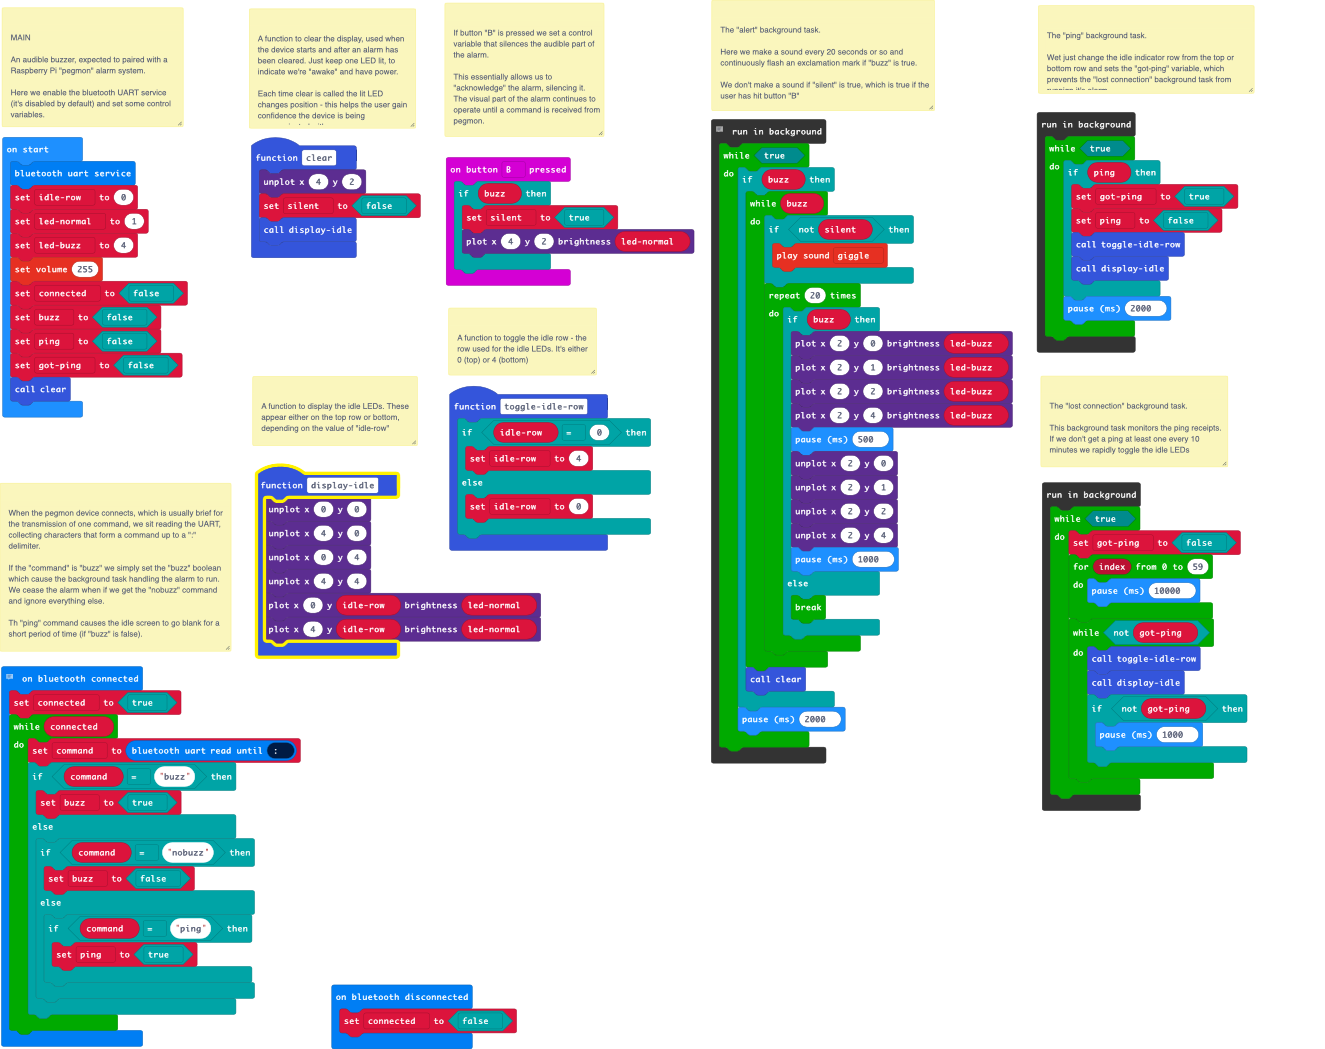
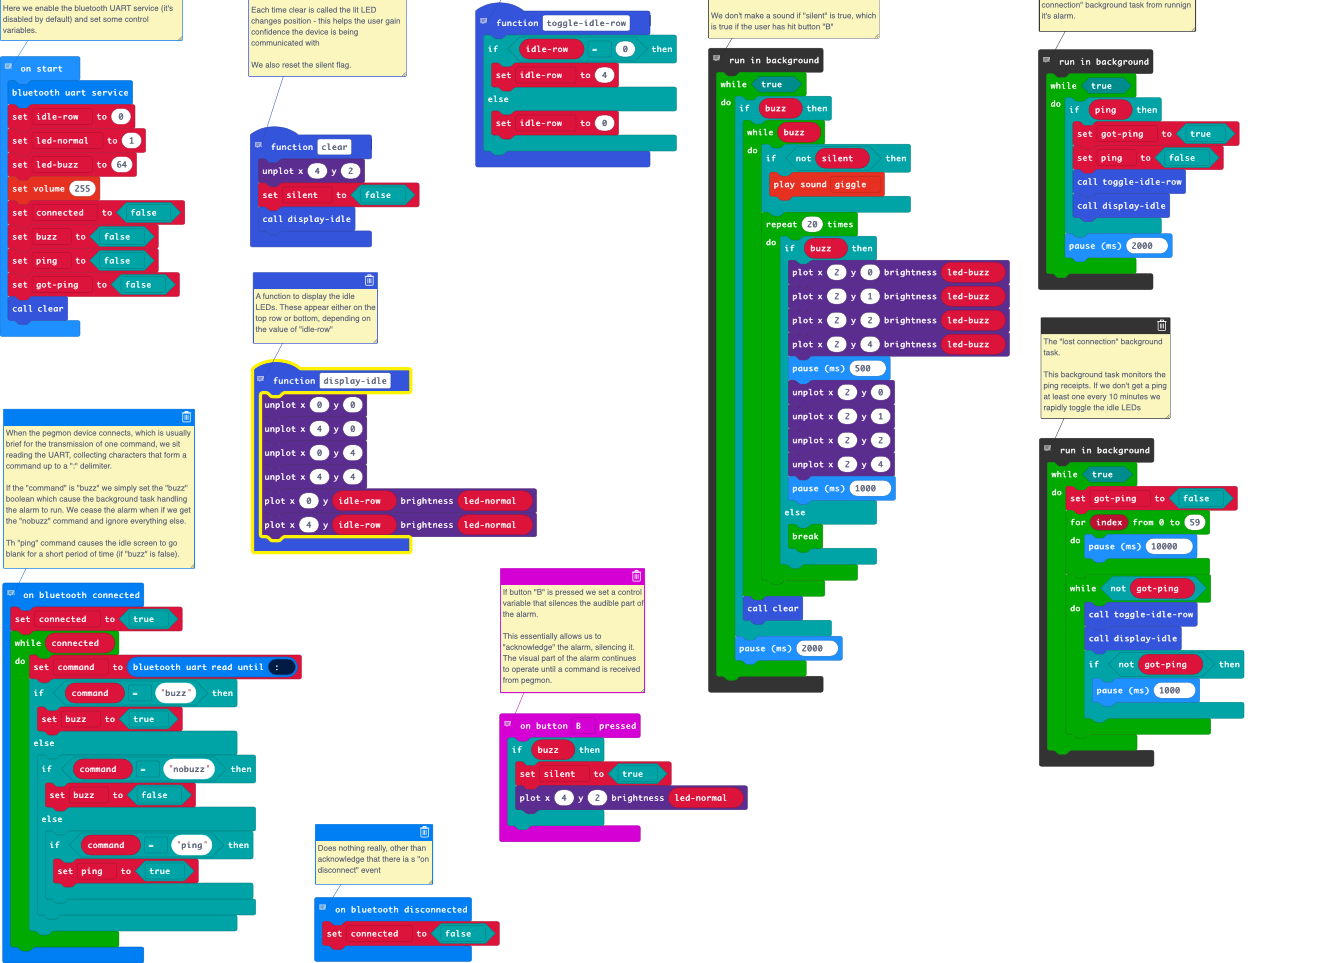
Switch to block comments

diff --git a/main.ts b/main.ts
@@ -1,28 +1,4 @@
-/**
- * MAIN
- * 
- * An audible buzzer, expected to paired with a Raspberry Pi "pegmon" alarm system.
- * 
- * Here we enable the bluetooth UART service (it's disabled by default) and set some control variables.
- */
-/**
- * The "ping" background task.
- * 
- * Wet just change the idle indicator row from the top or bottom row and sets the "got-ping" variable, which prevents the "lost connection" background task from runnign it's alarm.
- */
-/**
- * A function to display the idle LEDs. These appear either on the top row or bottom, depending on the value of "idle-row"
- */
-/**
- * When the pegmon device connects, which is usually brief for the transmission of one command, we sit reading the UART, collecting characters that form a command up to a ":" delimiter.
- * 
- * If the "command" is "buzz" we simply set the "buzz" boolean which cause the background task handling the alarm to run. We cease the alarm when if we get the "nobuzz" command and ignore everything else.
- * 
- * Th "ping" command causes the idle screen to go blank for a short period of time (if "buzz" is false).
- */
-/**
- * A function to toggle the idle row - the row used for the idle LEDs. It's either 0 (top) or 4 (bottom)
- */
+// A function to toggle the idle row - the row used for the idle LEDs. It's either 0 (top) or 4 (bottom)
 function toggleidlerow () {
     if (idlerow == 0) {
         idlerow = 4
@@ -30,7 +6,11 @@ function toggleidlerow () {
         idlerow = 0
     }
 }
-// When pegmon disconnects from us we simply set connected to false. This really has no effect at the moment, We handle it simply to indicate we know we can handle it.
+// When the pegmon device connects, which is usually brief for the transmission of one command, we sit reading the UART, collecting characters that form a command up to a ":" delimiter.
+// 
+// If the "command" is "buzz" we simply set the "buzz" boolean which cause the background task handling the alarm to run. We cease the alarm when if we get the "nobuzz" command and ignore everything else.
+// 
+// Th "ping" command causes the idle screen to go blank for a short period of time (if "buzz" is false).
 bluetooth.onBluetoothConnected(function () {
     connected = true
     while (connected) {
@@ -48,32 +28,30 @@ bluetooth.onBluetoothConnected(function () {
         }
     }
 })
+// Does nothing really, other than acknowledge that there ia s "on disconnect" event
 bluetooth.onBluetoothDisconnected(function () {
     connected = false
 })
-/**
- * A function to clear the display, used when the device starts and after an alarm has been cleared. Just keep one LED lit, to indicate we're "awake" and have power. 
- * 
- * Each time clear is called the lit LED changes position - this helps the user gain confidence the device is being communicated with 
- * 
- * We also reset the silent flag.
- */
-/**
- * If button "B" is pressed we set a control variable that silences the audible part of the alarm.
- * 
- * This essentially allows us to "acknowledge" the alarm, silencing it. The visual part of the alarm continues to operate until a command is received from pegmon.
- */
+// A function to clear the display, used when the device starts and after an alarm has been cleared. Just keep one LED lit, to indicate we're "awake" and have power. 
+// 
+// Each time clear is called the lit LED changes position - this helps the user gain confidence the device is being communicated with 
+// 
+// We also reset the silent flag.
 function clear () {
     led.unplot(4, 2)
     silent = false
     displayidle()
 }
+// If button "B" is pressed we set a control variable that silences the audible part of the alarm.
+// 
+// This essentially allows us to "acknowledge" the alarm, silencing it. The visual part of the alarm continues to operate until a command is received from pegmon.
 input.onButtonPressed(Button.B, function () {
     if (buzz) {
         silent = true
         led.plotBrightness(4, 2, lednormal)
     }
 })
+// A function to display the idle LEDs. These appear either on the top row or bottom, depending on the value of "idle-row"
 function displayidle () {
     led.unplot(0, 0)
     led.unplot(4, 0)
@@ -82,6 +60,11 @@ function displayidle () {
     led.plotBrightness(0, idlerow, lednormal)
     led.plotBrightness(4, idlerow, lednormal)
 }
+// MAIN
+// 
+// An audible buzzer, expected to paired with a Raspberry Pi "pegmon" alarm system.
+// 
+// Here we enable the bluetooth UART service (it's disabled by default) and set some control variables.
 let silent = false
 let command = ""
 let ping = false
@@ -92,32 +75,18 @@ let idlerow = 0
 bluetooth.startUartService()
 idlerow = 0
 lednormal = 1
-let ledbuzz = 4
+let ledbuzz = 64
 music.setVolume(255)
 connected = false
 buzz = false
 ping = false
 let gotping = false
 clear()
-/**
- * The "alert" background task.
- * 
- * Here we make a sound every 20 seconds or so and continuously flash an exclamation mark if "buzz" is true.
- * 
- * We don't make a sound if "silent" is true, which is true if the user has hit button "B"
- */
-/**
- * The "lost connection" background task.
- * 
- * This background task monitors the ping receipts. If we don't get a ping at least one every 10 minutes we rapidly toggle the idle LEDs
- */
-// The alarm loop - operating continuously in the background.
+// The "alert" background task.
 // 
-// Here, if "buzz" is True we start the alarm sequence, which consists of making a warning sound and then flashing a visual symbol (an exclamation mark). We continue to do this, checking the "buzz" variable regularly, until "buzz" is false.
+// Here we make a sound every 20 seconds or so and continuously flash an exclamation mark if "buzz" is true.
 // 
-// If "silent" is True (which is set by pressing button "B" during the alarm sequence) we silence the audible part of the alarm but continue the visual part.
-// 
-// We increase the brightness of the LEDs which are dimmed again (by the "clear()" function) when the alarm ceases.
+// We don't make a sound if "silent" is true, which is true if the user has hit button "B"
 control.inBackground(function () {
     while (true) {
         if (buzz) {
@@ -147,6 +116,9 @@ control.inBackground(function () {
         basic.pause(2000)
     }
 })
+// The "ping" background task.
+// 
+// Wet just change the idle indicator row from the top or bottom row and sets the "got-ping" variable, which prevents the "lost connection" background task from runnign it's alarm.
 control.inBackground(function () {
     while (true) {
         if (ping) {
@@ -158,6 +130,9 @@ control.inBackground(function () {
         basic.pause(2000)
     }
 })
+// The "lost connection" background task.
+// 
+// This background task monitors the ping receipts. If we don't get a ping at least one every 10 minutes we rapidly toggle the idle LEDs
 control.inBackground(function () {
     while (true) {
         gotping = false
